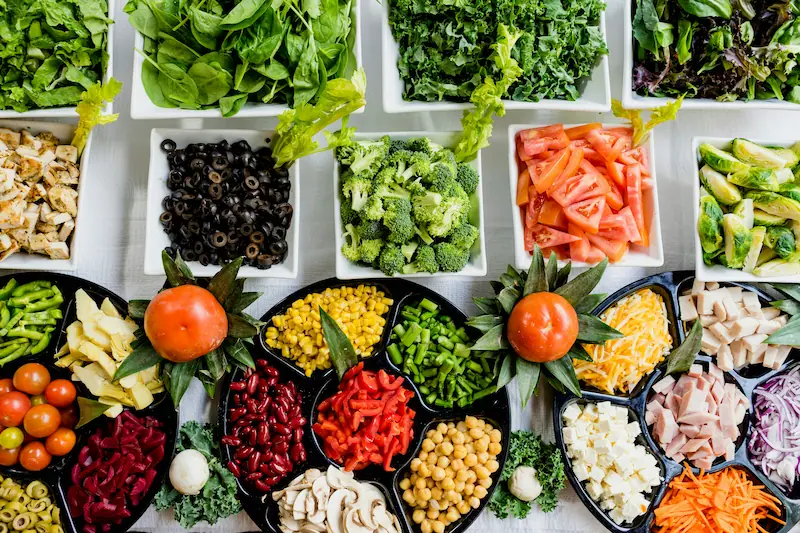
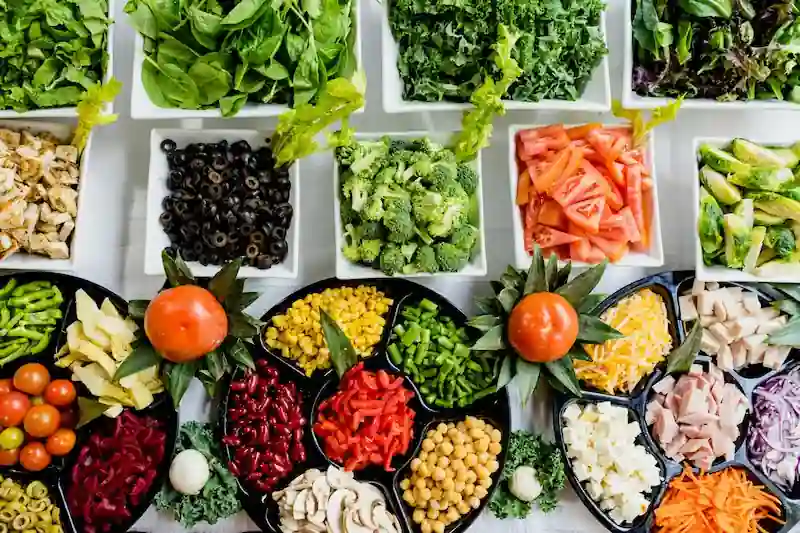
Fixed webpagetest fixes, lesser resize KB on nutrition image.

diff --git a/src/main.js b/src/main.js
@@ -367,11 +367,87 @@ document.addEventListener('DOMContentLoaded', () => {
             .join('');
     }
 
+    // -------------------------------------------------------------------------
+    // 8. Live GitHub Activity Fetcher (Search-First with Event Fallback)
+    // -------------------------------------------------------------------------
     async function loadGitHubActivity() {
         const cached = sessionStorage.getItem(CACHE_KEY);
         const cachedTime = sessionStorage.getItem(CACHE_TIME_KEY);
 
+        // 1. Check local session cache first
         if (cached && cachedTime && Date.now() - Number(cachedTime) < TTL_MS) {
+            try {
+                renderCommits(JSON.parse(cached));
+                return;
+            } catch {
+                // Ignore parse errors
+            }
+        }
+
+        // 2. Primary: Modern Commit Search API (Fetches latest commits across all repos)
+        try {
+            const res = await fetch(
+                `https://api.github.com/search/commits?q=author:${GITHUB_USERNAME}&sort=author-date&order=desc&per_page=5`,
+                {
+                    headers: {
+                        // Official modern GitHub API header (fixes the deprecated cloak-preview CORS bug)
+                        Accept: 'application/vnd.github+json'
+                    }
+                }
+            );
+
+            if (!res.ok) throw new Error(`Search failed with status: ${res.status}`);
+
+            const data = await res.json();
+            const commits = data.items || [];
+
+            if (commits.length > 0) {
+                sessionStorage.setItem(CACHE_KEY, JSON.stringify(commits));
+                sessionStorage.setItem(CACHE_TIME_KEY, String(Date.now()));
+                renderCommits(commits);
+                return;
+            }
+        } catch {
+            // Search failed or rate-limited; gracefully proceed to fallback
+        }
+
+        // 3. Fallback: Public Events API (Higher rate limits)
+        try {
+            const eventsRes = await fetch(`https://api.github.com/users/${GITHUB_USERNAME}/events/public?per_page=30`);
+
+            if (!eventsRes.ok) throw new Error('Events endpoint unavailable');
+
+            const eventsData = await eventsRes.json();
+
+            const pushEvents = eventsData
+                .filter(e => e.type === 'PushEvent' && e.payload?.commits?.length > 0)
+                .flatMap(e =>
+                    e.payload.commits.map(c => ({
+                        commit: {
+                            message: c.message,
+                            author: { date: e.created_at }
+                        },
+                        repository: {
+                            name: e.repo.name.replace(`${GITHUB_USERNAME}/`, '')
+                        },
+                        html_url: `https://github.com/${e.repo.name}/commit/${c.sha}`,
+                        sha: c.sha
+                    }))
+                )
+                .slice(0, 5);
+
+            if (pushEvents.length > 0) {
+                sessionStorage.setItem(CACHE_KEY, JSON.stringify(pushEvents));
+                sessionStorage.setItem(CACHE_TIME_KEY, String(Date.now()));
+                renderCommits(pushEvents);
+                return;
+            }
+        } catch {
+            // Both network calls failed
+        }
+
+        // 4. Last resort: Show cached data or graceful offline message
+        if (cached) {
             try {
                 renderCommits(JSON.parse(cached));
                 return;
@@ -380,72 +456,13 @@ document.addEventListener('DOMContentLoaded', () => {
             }
         }
 
-        try {
-            const res = await fetch(
-                `https://api.github.com/search/commits?q=author:${GITHUB_USERNAME}&sort=author-date&order=desc&per_page=5&_t=${Date.now()}`,
-                {
-                    headers: {
-                        Accept: 'application/vnd.github.cloak-preview+json'
-                    },
-                    cache: 'no-cache'
-                }
-            );
-
-            if (!res.ok) throw new Error('Search failed');
-
-            const data = await res.json();
-            const commits = data.items || [];
-
-            sessionStorage.setItem(CACHE_KEY, JSON.stringify(commits));
-            sessionStorage.setItem(CACHE_TIME_KEY, String(Date.now()));
-            renderCommits(commits);
-        } catch {
-            try {
-                const eventsRes = await fetch(
-                    `https://api.github.com/users/${GITHUB_USERNAME}/events/public?_t=${Date.now()}`
-                );
-
-                if (!eventsRes.ok) throw new Error('Events failed');
-
-                const eventsData = await eventsRes.json();
-
-                const pushEvents = eventsData
-                    .filter(e => e.type === 'PushEvent' && e.payload?.commits?.length > 0)
-                    .flatMap(e =>
-                        e.payload.commits.map(c => ({
-                            commit: {
-                                message: c.message,
-                                author: { date: e.created_at }
-                            },
-                            repository: {
-                                name: e.repo.name.replace(`${GITHUB_USERNAME}/`, '')
-                            },
-                            html_url: `https://github.com/${e.repo.name}/commit/${c.sha}`,
-                            sha: c.sha
-                        }))
-                    )
-                    .slice(0, 5);
-
-                renderCommits(pushEvents);
-            } catch {
-                if (cached) {
-                    try {
-                        renderCommits(JSON.parse(cached));
-                        return;
-                    } catch {
-                        // Ignore
-                    }
-                }
-
-                if (activityFeed) {
-                    activityFeed.innerHTML = `
-                        <div class="activity-skeleton">
-                            <span lang="en">GitHub activity temporarily unavailable.</span>
-                            <span lang="sv">GitHub-aktivitet tillfälligt otillgänglig.</span>
-                        </div>
-                    `;
-                }
-            }
+        if (activityFeed) {
+            activityFeed.innerHTML = `
+                <div class="activity-skeleton">
+                    <span lang="en">GitHub activity temporarily unavailable.</span>
+                    <span lang="sv">GitHub-aktivitet tillfälligt otillgänglig.</span>
+                </div>
+            `;
         }
     }
 

diff --git a/index.html b/index.html
@@ -33,6 +33,11 @@
         <meta property="og:image" content="./src/assets/profile-picture-resized.webp" />
 
         <!-- Stylesheets & Assets -->
+        <!-- Preload Critical Rendering Path Assets -->
+        <link rel="preload" href="./src/style.css" as="style" />
+        <link rel="preload" href="./src/assets/profile-picture-resized.webp" as="image" type="image/webp" />
+
+        <!-- Stylesheets & Assets -->
         <link rel="stylesheet" href="./src/style.css" />
         <link rel="icon" type="image/svg+xml" href="./src/assets/favicon.svg" />
     </head>
@@ -1133,7 +1138,7 @@
                     </div>
                 </div>
                 <div class="cv-modal-body">
-                    <iframe data-src="./src/assets/resume.pdf" title="Adam Nordling Resume PDF Preview"> </iframe>
+                    <iframe data-src="./src/assets/resume.pdf" title="Adam Nordling Resume PDF Preview"></iframe>
                 </div>
             </div>
         </div>
